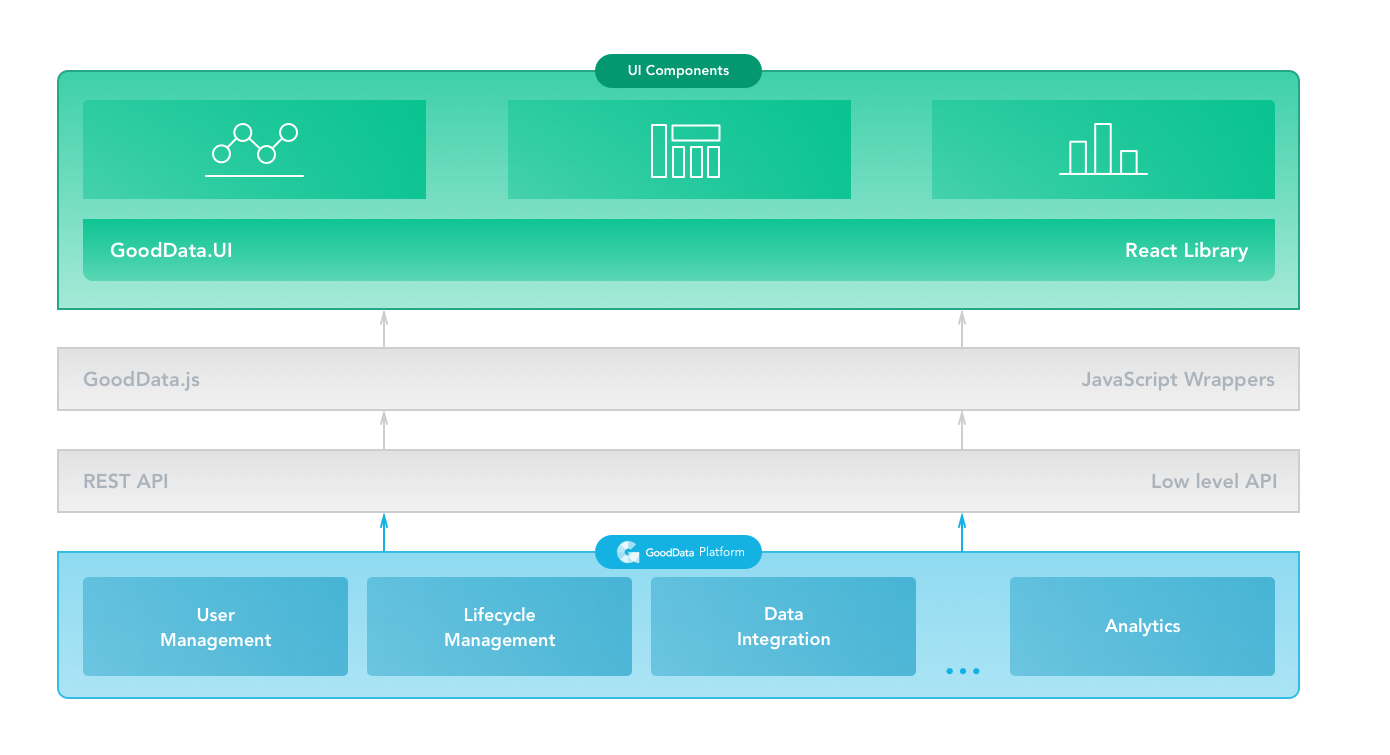
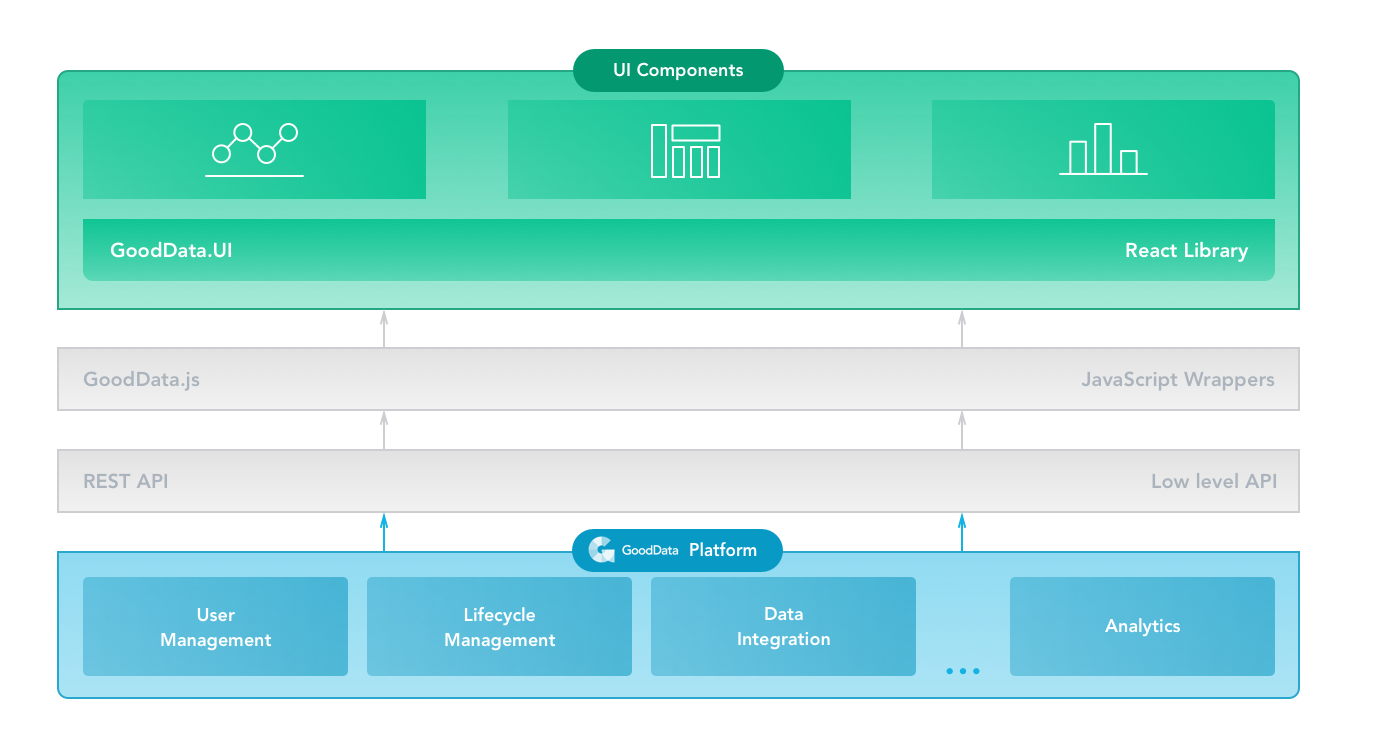
RELATED: RAIL-895 Updated the first pic; updated text per ZD

Changed region(s): [[0.4022, 0.7007, 0.5878, 0.7616], [0.4022, 0.0609, 0.5878, 0.1219]]

diff --git a/website/versioned_docs/version-5.0.0/platform_intro.md b/website/versioned_docs/version-5.0.0/platform_intro.md
@@ -6,37 +6,45 @@ copyright: (C) 2007-2018 GoodData Corporation
 original_id: platform_intro
 ---
 
-The **GoodData platform** is an end-to-end scalable analytics platform.
-
-Use available GoodData.UI components to create your own visual components.
-If you have not found the component that fits your needs, see [GoodData.js](http://sdk.gooddata.com/gooddata-js/) and [REST API](https://help.gooddata.com/display/doc/API+Reference#/reference).
+**GoodData Platform** is a powerful end-to-end analytics platform as a service with multi-tenant distribution that scales to hundreds of terabytes of data and hundreds of thousands of users. Learn more about the [GoodData platform](https://www.gooddata.com/platform) and how to [embed its analytics possibilities](https://www.gooddata.com/embedded-analytics).
 
 ![GoodData Platform and GoodData.UI](assets/gooddata_platform_ui.png "GoodData Platform and GoodData.UI")
 
-Let's get familiar with the main concepts.
+**GoodData REST API** is a low-level API that makes the platform features accessible to all GoodData users.
 
-Imagine you have the data that shows how much money your Sales departments make daily in average.
+**GoodData.js** is a set of JavaScript wrappers written on top of the *REST API*. Additionally, GoodData.js handles authentication, unified query request format (AFM), and many more.
 
-| Location State | $ Avg Daily Total Sales |
-| :--- | :--- | :--- | :--- |
-| Alabama | $15,239 |
-| California | $37,877 |
-| Florida | $12,639 |
-| London | $24,041|
-| New York | $11,678 |
-| Texas | $10,299 |
-| Tokyo | $14,451 |
+**GoodData.UI** is a React-based JavaScript library for building responsive analytical applications. This library is written on top of *GoodData.js* and makes creating analytical applications even more convenient by adding visual components.
+
+## Main Concepts
+
+Imagine you have the data that shows how much money your Franchizes earn daily.
+
+| Location State | Daily Sales | Date      |
+| -------------- | ----------- | --------- |
+| Alabama        | $16,239     | 5/22/2018 |
+| California     | $39,877     | 5/22/2018 |
+| Florida        | $12,639     | 5/22/2018 |
+| London         | $24,041     | 5/22/2018 |
+| New York       | $11,678     | 5/22/2018 |
+| Texas          | $10,299     | 5/22/2018 |
+| Tokyo          | $18,451     | 5/22/2018 |
+| Alabama        | $14,239     | 5/23/2018 |
+| California     | $35,877     | 5/23/2018 |
+| Florida        | $12,639     | 5/23/2018 |
+| London         | $24,041     | 5/23/2018 |
+| New York       | $11,678     | 5/23/2018 |
+| Texas          | $10,299     | 5/23/2018 |
+| Tokyo          | $10,451     | 5/23/2018 |
 
 With GoodData.UI, let's display this data as a bar chart:
 
 ![Bar Chart](assets/intro_bar_chart.png "Bar Chart")
 
-The graph shows the elements that together build up **AFM** (**Attribute** - **Filter** - **Measure**), unified input for creating a visualization using the GoodData.UI.
+The graph shows the elements that together work as unified input for creating a visualization using GoodData.UI.
 
-`$ Avg Daily Total Sales` is a **measure** that represents what is being measured. In this example, you are interested in the average daily amount of sales.
+`$ Daily Sales` is a **measure** that represents what is being measured. In this example, you are interested in the daily amount of sales.
 
 `Location State` is an **attribute** that breaks the measure apart and provides context to the data. In this example, the measure is sliced by the location of the Sales departments.
 
 Notice that the chart shows only specific values of the `Location State` attribute: `Alabama`, `California`, `Florida`, `New York`, and `Texas`. This is because the chart has a **filter** applied to display only the Sales offices located in the USA.
-
-For more information about AFM, see [AFM Components](afm_components.md).
